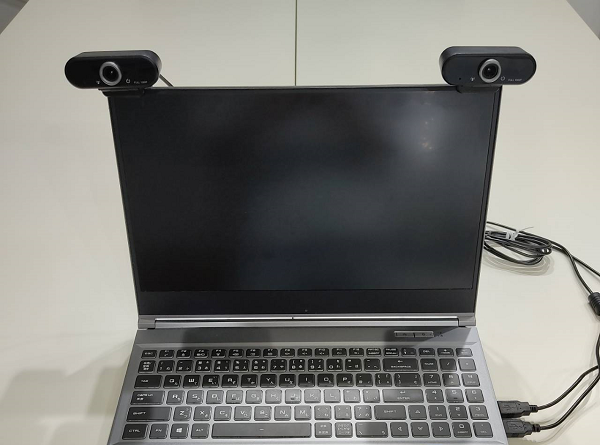
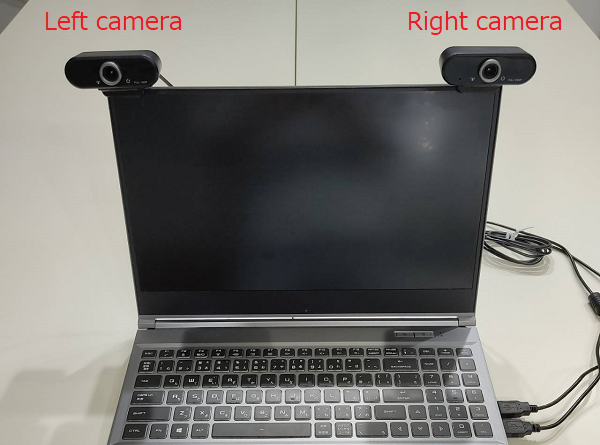
camera open

Changed region(s): [[0.66, 0.0292, 0.96, 0.0876], [0.06, 0.0292, 0.3, 0.0876]]

diff --git a/docs/ja/how-to-use-webcam-settings/index.html b/docs/ja/how-to-use-webcam-settings/index.html
@@ -433,6 +433,13 @@
       
         <li class="md-nav__item">
   <a href="#_4" class="md-nav__link">
+    カメラの起動
+  </a>
+  
+</li>
+      
+        <li class="md-nav__item">
+  <a href="#_5" class="md-nav__link">
     カメラ校正
   </a>
   
@@ -617,7 +624,12 @@
 <li>2つのカメラは、20～30cm程度の間隔をあけて配置してください。</li>
 </ul>
 <p><img alt="" loading="lazy" src="../images/camera-placement.png" /></p>
-<h2 id="_4">カメラ校正</h2>
+<h2 id="_4">カメラの起動</h2>
+<ul>
+<li>MocapForStreamerの「Webcam settings」で、<strong>ユーザから見て</strong>左側にあるカメラを「Left camera」、右側にあるカメラを「Right camera」として指定します。</li>
+<li>デフォルトでは、「Windows Media Framework」を使ってカメラを制御していますが、一部のカメラは動作しません。カメラが正しく起動しない場合は、「Webcam framework」で「DirectShow」を指定し、カメラを開きなおしてください。</li>
+</ul>
+<h2 id="_5">カメラ校正</h2>
 <ul>
 <li>カメラの視野の中央付近に顔が映るようにします。</li>
 <li>カメラをまっすぎ見た状態で、「Camera Distance」の「Calibrate」をクリックします。</li>

diff --git a/docs/en/how-to-use-webcam-settings/index.html b/docs/en/how-to-use-webcam-settings/index.html
@@ -432,6 +432,13 @@
 </li>
       
         <li class="md-nav__item">
+  <a href="#open-camera" class="md-nav__link">
+    Open camera
+  </a>
+  
+</li>
+      
+        <li class="md-nav__item">
   <a href="#camera-calibration" class="md-nav__link">
     Camera calibration
   </a>
@@ -615,6 +622,12 @@
 <ul>
 <li>Place the two cameras side by side, e.g. on a PC display, so that the optical axes of the two cameras are parallel.</li>
 <li>The two cameras should be placed 20-30 cm apart.</li>
+</ul>
+<p><img alt="" loading="lazy" src="../images/camera-placement.png" /></p>
+<h2 id="open-camera">Open camera</h2>
+<ul>
+<li>In the 'Webcam settings' section of MocapForStreamer, specify the camera on the left side <strong>as seen from the user</strong> as the 'Left camera' and the camera on the right side as the 'Right camera'.</li>
+<li>By default, the camera is controlled using the 'Windows Media Framework', but some cameras do not work. If the camera does not start correctly, specify 'DirectShow' in the 'Webcam framework' and reopen the camera.</li>
 </ul>
 <h2 id="camera-calibration">Camera calibration</h2>
 <ul>

diff --git a/doc_en/docs/how-to-use-webcam-settings.md b/doc_en/docs/how-to-use-webcam-settings.md
@@ -16,6 +16,13 @@ The following camera was used in the development of MocapForStreamer. (FOV is ar
 - Place the two cameras side by side, e.g. on a PC display, so that the optical axes of the two cameras are parallel.
 - The two cameras should be placed 20-30 cm apart.
 
+![](images/camera-placement.png){ loading=lazy }
+
+## Open camera 
+
+- In the 'Webcam settings' section of MocapForStreamer, specify the camera on the left side **as seen from the user** as the 'Left camera' and the camera on the right side as the 'Right camera'.
+- By default, the camera is controlled using the 'Windows Media Framework', but some cameras do not work. If the camera does not start correctly, specify 'DirectShow' in the 'Webcam framework' and reopen the camera.
+
 ## Camera calibration
 
 - Place your face in the center of the field of view of both cameras and press "Calibrate" while looking straight at the camera.
